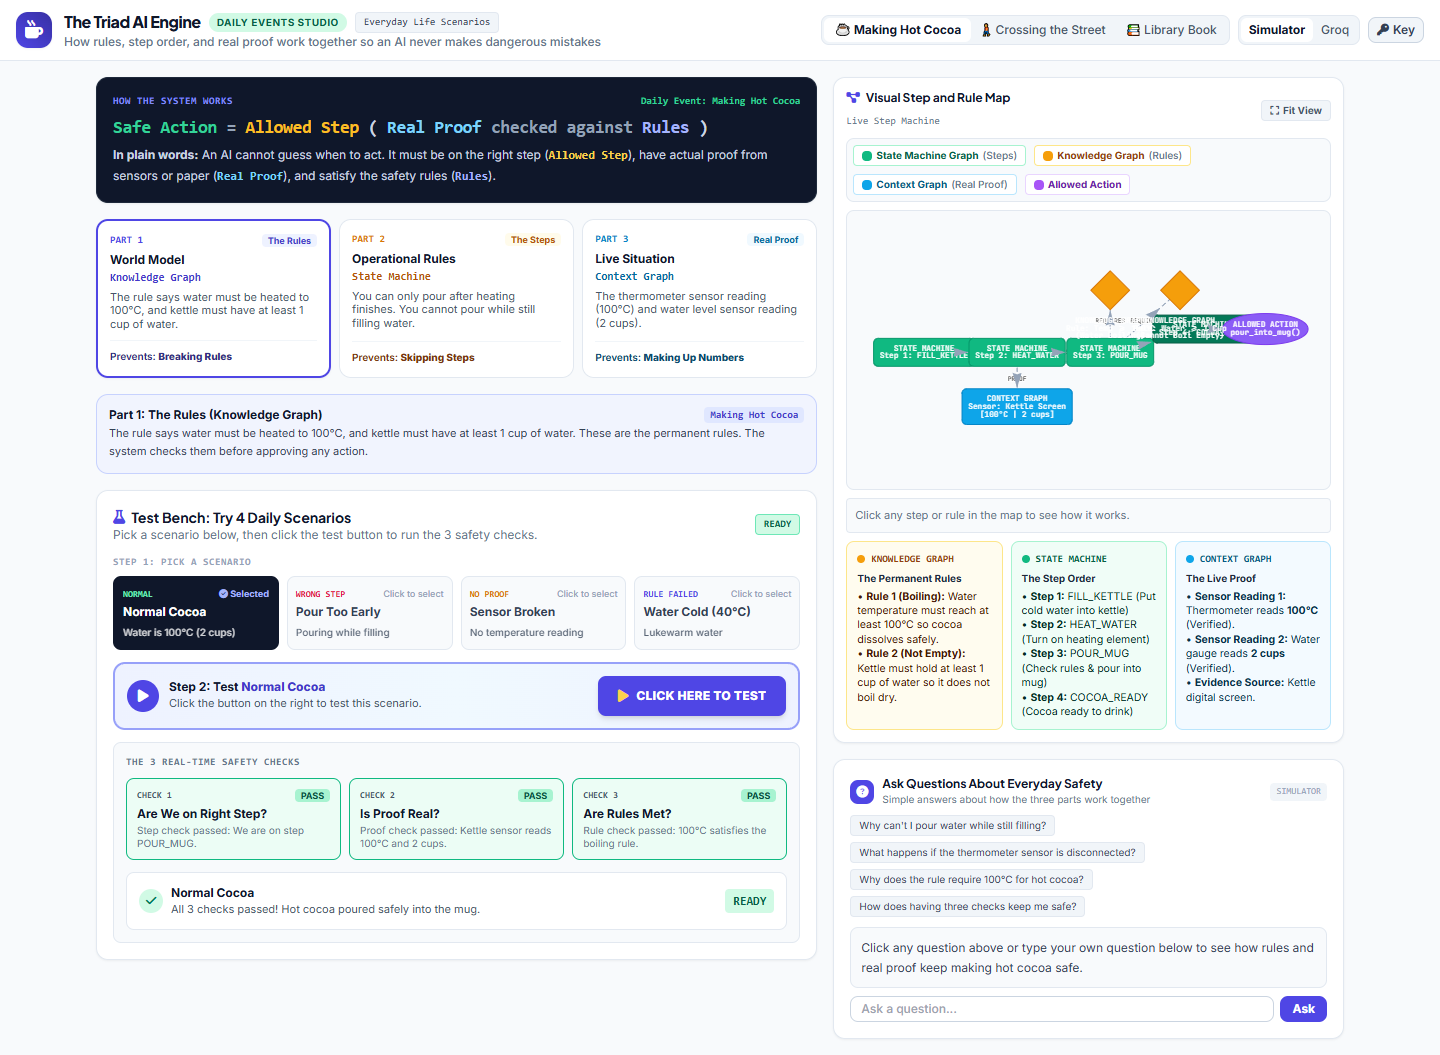
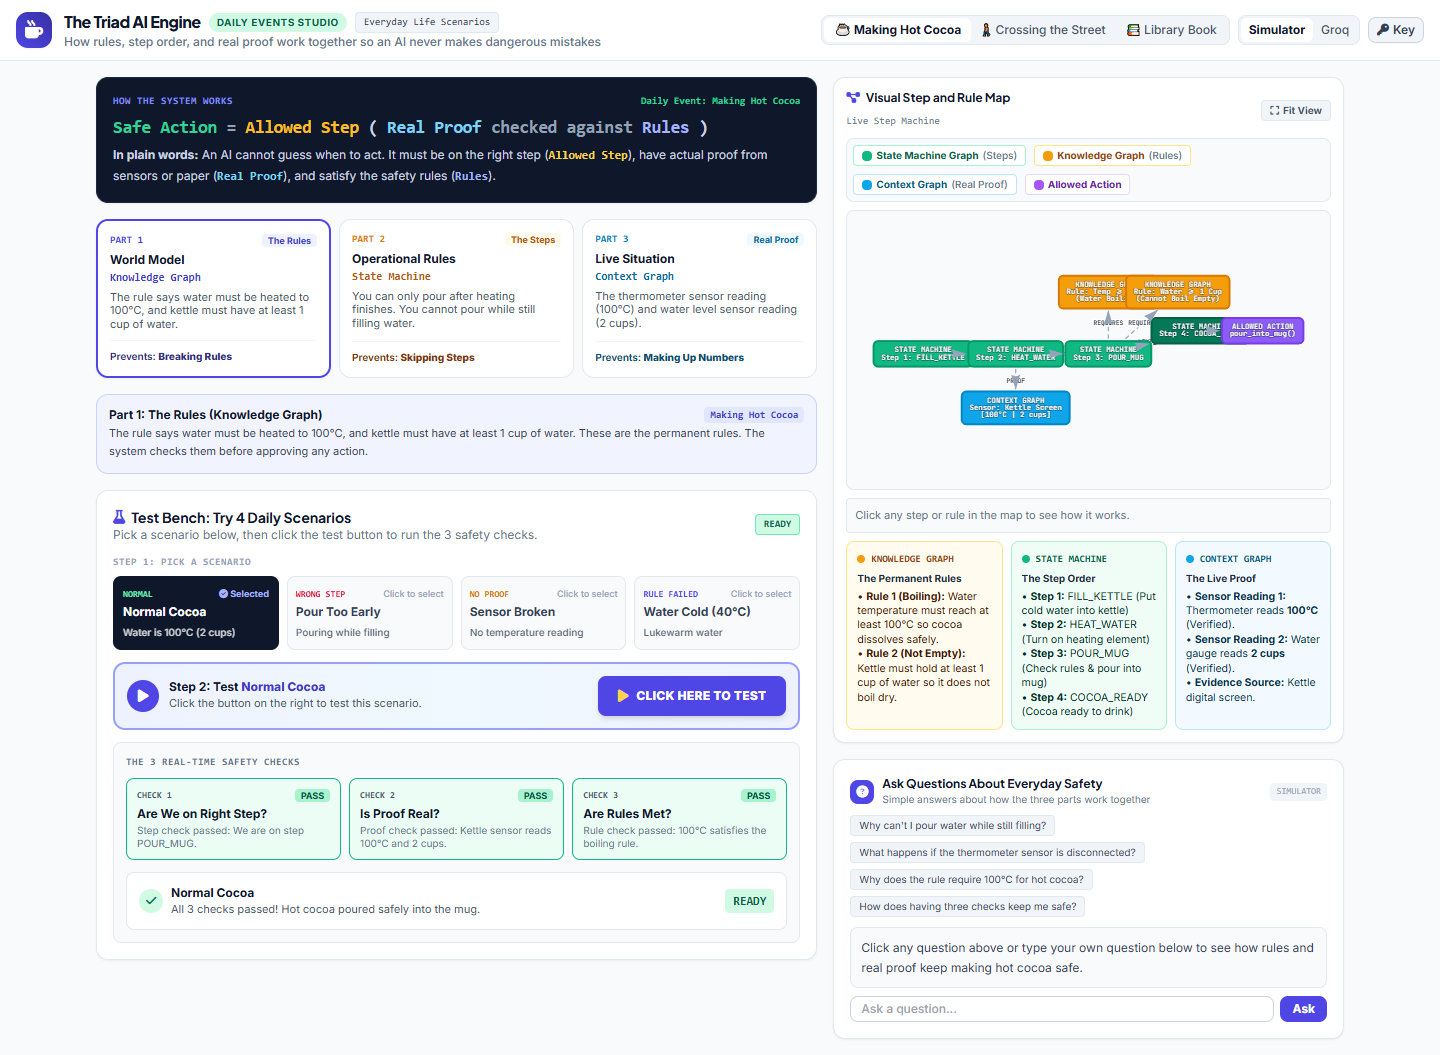
fix: Wrap all graph node text inside rounded box blocks

Changed region(s): [[0.5938, 0.2427, 0.9062, 0.4246]]

diff --git a/deterministic_ai_studio.html b/deterministic_ai_studio.html
@@ -526,9 +526,9 @@
           { id: 's2', label: 'STATE MACHINE\nStep 2: HEAT_WATER', shape: 'box', color: { background: '#10b981', border: '#059669' }, x: -40, y: 0 },
           { id: 's3', label: 'STATE MACHINE\nStep 3: POUR_MUG', shape: 'box', color: { background: '#10b981', border: '#059669' }, x: 80, y: 0 },
           { id: 's4', label: 'STATE MACHINE\nStep 4: COCOA_READY', shape: 'box', color: { background: '#047857', border: '#065f46' }, x: 200, y: -30 },
-          { id: 'r1', label: 'KNOWLEDGE GRAPH\nRule: Temp >= 100°C\n(Water Boiling)', shape: 'diamond', color: { background: '#f59e0b', border: '#d97706' }, x: 80, y: -80 },
-          { id: 'r2', label: 'KNOWLEDGE GRAPH\nRule: Water >= 1 Cup\n(Cannot Boil Empty)', shape: 'diamond', color: { background: '#f59e0b', border: '#d97706' }, x: 170, y: -80 },
-          { id: 'act', label: 'ALLOWED ACTION\npour_into_mug()', shape: 'ellipse', color: { background: '#8b5cf6', border: '#7c3aed' }, x: 280, y: -30 },
+          { id: 'r1', label: 'KNOWLEDGE GRAPH\nRule: Temp >= 100°C\n(Water Boiling)', shape: 'box', color: { background: '#f59e0b', border: '#d97706' }, x: 80, y: -80 },
+          { id: 'r2', label: 'KNOWLEDGE GRAPH\nRule: Water >= 1 Cup\n(Cannot Boil Empty)', shape: 'box', color: { background: '#f59e0b', border: '#d97706' }, x: 170, y: -80 },
+          { id: 'act', label: 'ALLOWED ACTION\npour_into_mug()', shape: 'box', color: { background: '#8b5cf6', border: '#7c3aed' }, x: 280, y: -30 },
           { id: 'prf', label: 'CONTEXT GRAPH\nSensor: Kettle Screen\n[100°C | 2 cups]', shape: 'box', color: { background: '#0ea5e9', border: '#0284c7' }, x: -40, y: 70 }
         ],
         edges: [
@@ -622,9 +622,9 @@
           { id: 's2', label: 'STATE MACHINE\nStep 2: CHECK_LIGHT', shape: 'box', color: { background: '#10b981', border: '#059669' }, x: -40, y: 0 },
           { id: 's3', label: 'STATE MACHINE\nStep 3: STEP_TO_CROSS', shape: 'box', color: { background: '#10b981', border: '#059669' }, x: 80, y: 0 },
           { id: 's4', label: 'STATE MACHINE\nStep 4: SAFE_ON_SIDE', shape: 'box', color: { background: '#047857', border: '#065f46' }, x: 200, y: -30 },
-          { id: 'r1', label: 'KNOWLEDGE GRAPH\nRule: Light == WALK\n(White Walk Sign)', shape: 'diamond', color: { background: '#f59e0b', border: '#d97706' }, x: 80, y: -80 },
-          { id: 'r2', label: 'KNOWLEDGE GRAPH\nRule: Cars Stopped\n(Speed == 0 mph)', shape: 'diamond', color: { background: '#f59e0b', border: '#d97706' }, x: 170, y: -80 },
-          { id: 'act', label: 'ALLOWED ACTION\nwalk_across()', shape: 'ellipse', color: { background: '#8b5cf6', border: '#7c3aed' }, x: 280, y: -30 },
+          { id: 'r1', label: 'KNOWLEDGE GRAPH\nRule: Light == WALK\n(White Walk Sign)', shape: 'box', color: { background: '#f59e0b', border: '#d97706' }, x: 80, y: -80 },
+          { id: 'r2', label: 'KNOWLEDGE GRAPH\nRule: Cars Stopped\n(Speed == 0 mph)', shape: 'box', color: { background: '#f59e0b', border: '#d97706' }, x: 170, y: -80 },
+          { id: 'act', label: 'ALLOWED ACTION\nwalk_across()', shape: 'box', color: { background: '#8b5cf6', border: '#7c3aed' }, x: 280, y: -30 },
           { id: 'prf', label: 'CONTEXT GRAPH\nSensor: Crosswalk Cam\n[WALK | 0 mph]', shape: 'box', color: { background: '#0ea5e9', border: '#0284c7' }, x: -40, y: 70 }
         ],
         edges: [
@@ -718,9 +718,9 @@
           { id: 's2', label: 'STATE MACHINE\nStep 2: GO_TO_DESK', shape: 'box', color: { background: '#10b981', border: '#059669' }, x: -40, y: 0 },
           { id: 's3', label: 'STATE MACHINE\nStep 3: SCAN_CARD', shape: 'box', color: { background: '#10b981', border: '#059669' }, x: 80, y: 0 },
           { id: 's4', label: 'STATE MACHINE\nStep 4: TAKE_HOME', shape: 'box', color: { background: '#047857', border: '#065f46' }, x: 200, y: -30 },
-          { id: 'r1', label: 'KNOWLEDGE GRAPH\nRule: Card Active\n(Account in Good Standing)', shape: 'diamond', color: { background: '#f59e0b', border: '#d97706' }, x: 80, y: -80 },
-          { id: 'r2', label: 'KNOWLEDGE GRAPH\nRule: Overdue == 0\n(No Overdue Books)', shape: 'diamond', color: { background: '#f59e0b', border: '#d97706' }, x: 170, y: -80 },
-          { id: 'act', label: 'ALLOWED ACTION\nleave_with_book()', shape: 'ellipse', color: { background: '#8b5cf6', border: '#7c3aed' }, x: 280, y: -30 },
+          { id: 'r1', label: 'KNOWLEDGE GRAPH\nRule: Card Active\n(Account in Good Standing)', shape: 'box', color: { background: '#f59e0b', border: '#d97706' }, x: 80, y: -80 },
+          { id: 'r2', label: 'KNOWLEDGE GRAPH\nRule: Overdue == 0\n(No Overdue Books)', shape: 'box', color: { background: '#f59e0b', border: '#d97706' }, x: 170, y: -80 },
+          { id: 'act', label: 'ALLOWED ACTION\nleave_with_book()', shape: 'box', color: { background: '#8b5cf6', border: '#7c3aed' }, x: 280, y: -30 },
           { id: 'prf', label: 'CONTEXT GRAPH\nScanner: Desk Reader\n[Card #492 | Book #88]', shape: 'box', color: { background: '#0ea5e9', border: '#0284c7' }, x: -40, y: 70 }
         ],
         edges: [
@@ -937,15 +937,35 @@
     // =================================================================
     function renderVisNetwork(t) {
       const container = document.getElementById('graph-canvas');
+      
+      // Ensure all nodes use rounded 'box' so colored background completely encloses all text lines
       const nodes = new vis.DataSet(t.nodes.map(n => ({
         ...n,
-        font: { color: '#ffffff', face: 'JetBrains Mono', size: 10, bold: true },
-        margin: 8
+        shape: 'box',
+        shapeProperties: { borderRadius: 6 },
+        margin: { top: 7, bottom: 7, left: 10, right: 10 },
+        borderWidth: 2,
+        font: { 
+          color: '#ffffff', 
+          face: 'JetBrains Mono', 
+          size: 9.5, 
+          bold: true,
+          strokeWidth: 2,
+          strokeColor: 'rgba(15, 23, 42, 0.45)'
+        }
       })));
 
+      // High-contrast edge labels with white halo stroke
       const edges = new vis.DataSet(t.edges.map(e => ({
         ...e,
-        font: { size: 8, face: 'JetBrains Mono', align: 'horizontal' },
+        font: { 
+          size: 8, 
+          face: 'JetBrains Mono', 
+          color: '#0f172a', 
+          strokeWidth: 3, 
+          strokeColor: '#ffffff', 
+          bold: true 
+        },
         color: { color: e.color || '#94a3b8' },
         width: 1.5
       })));
